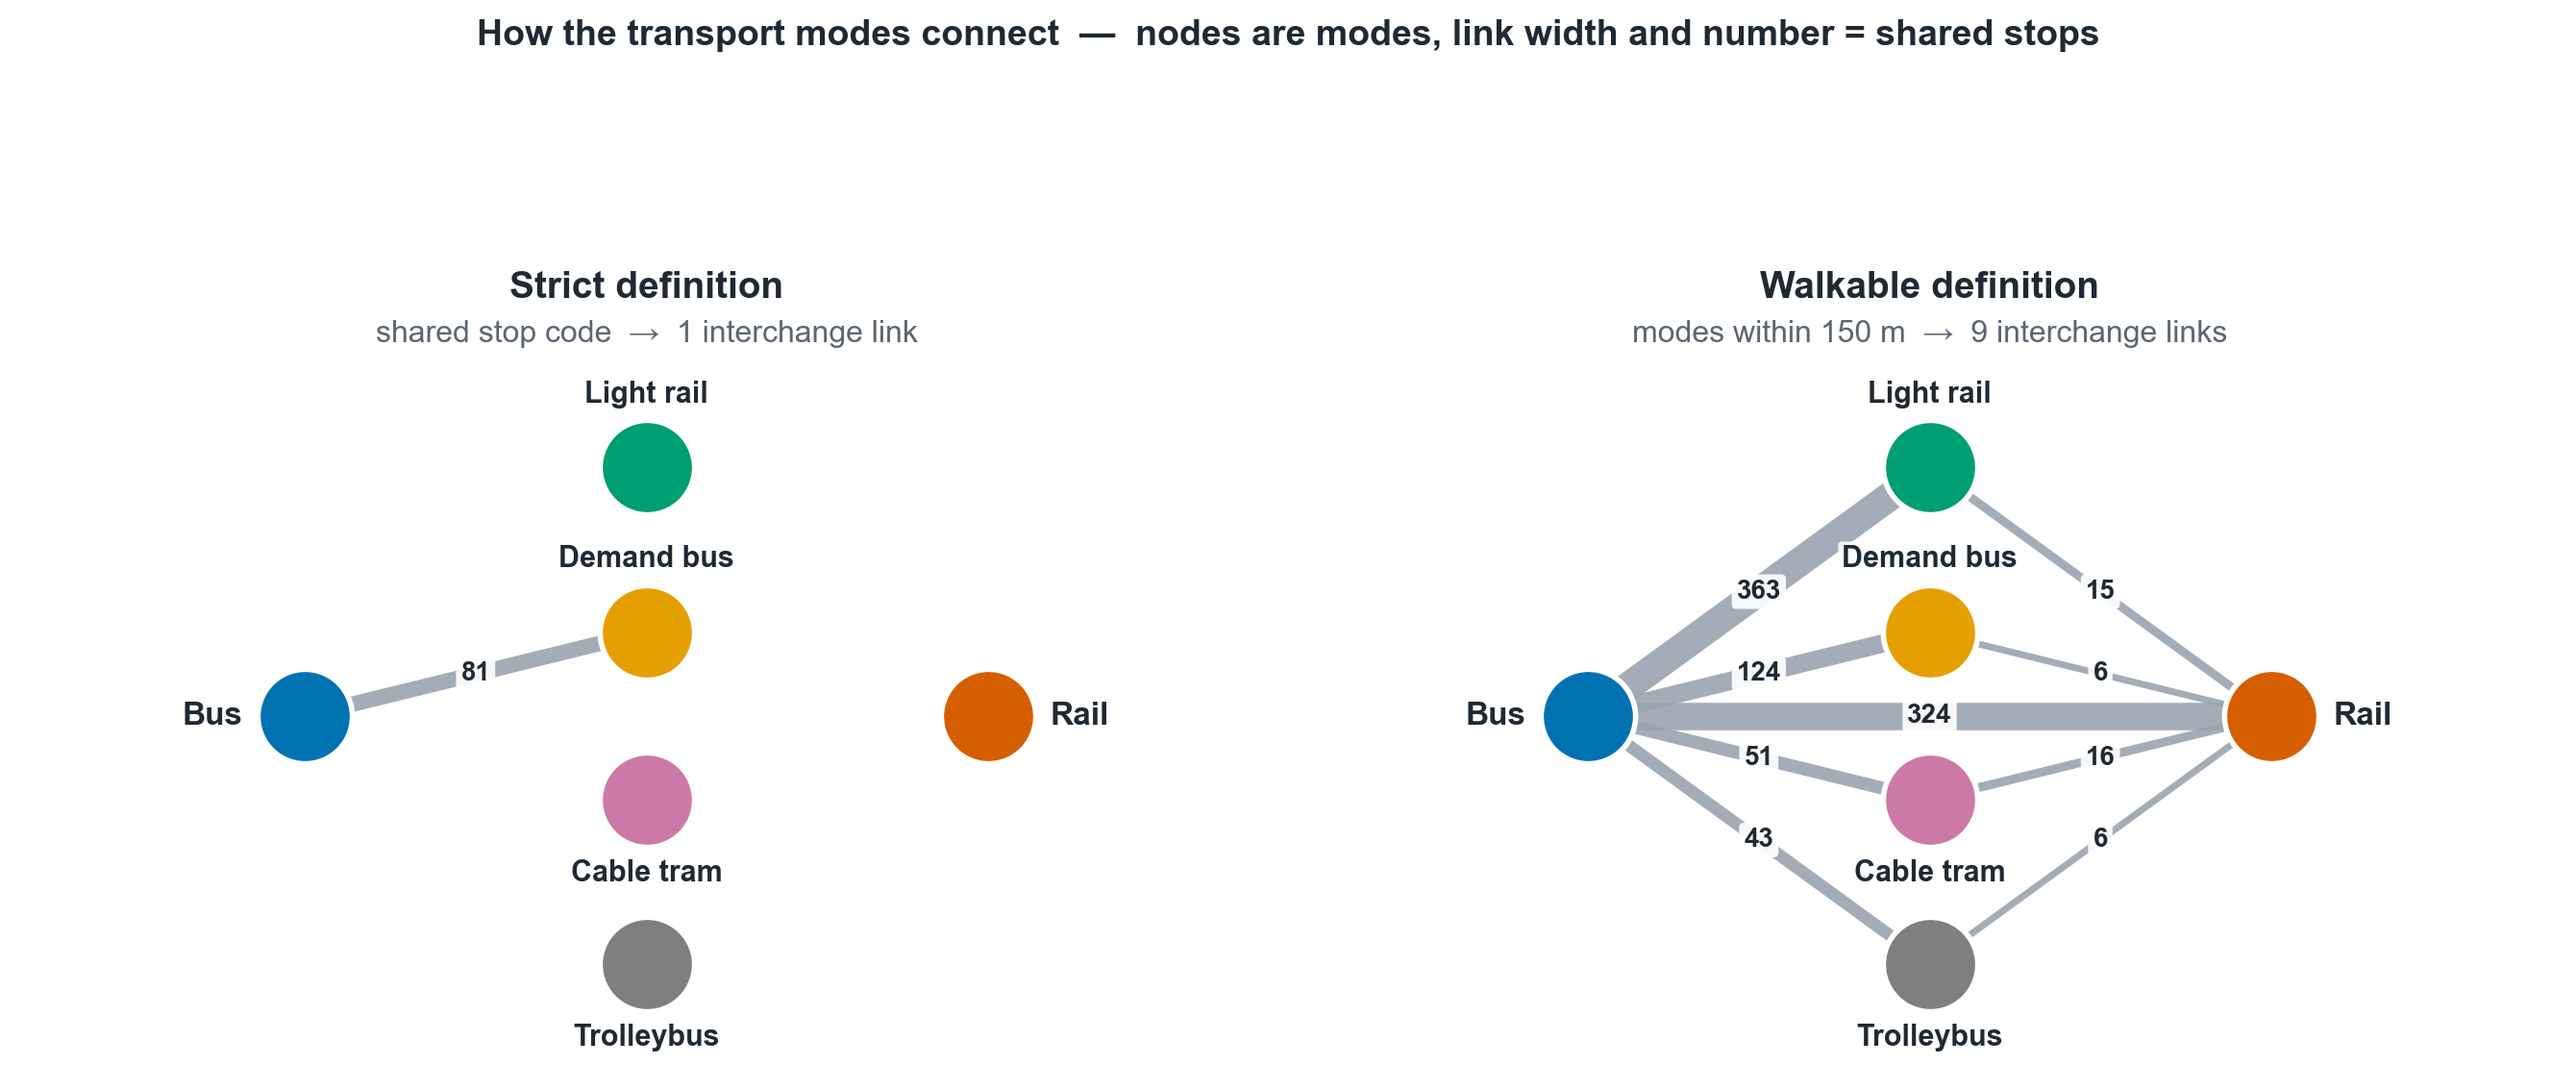
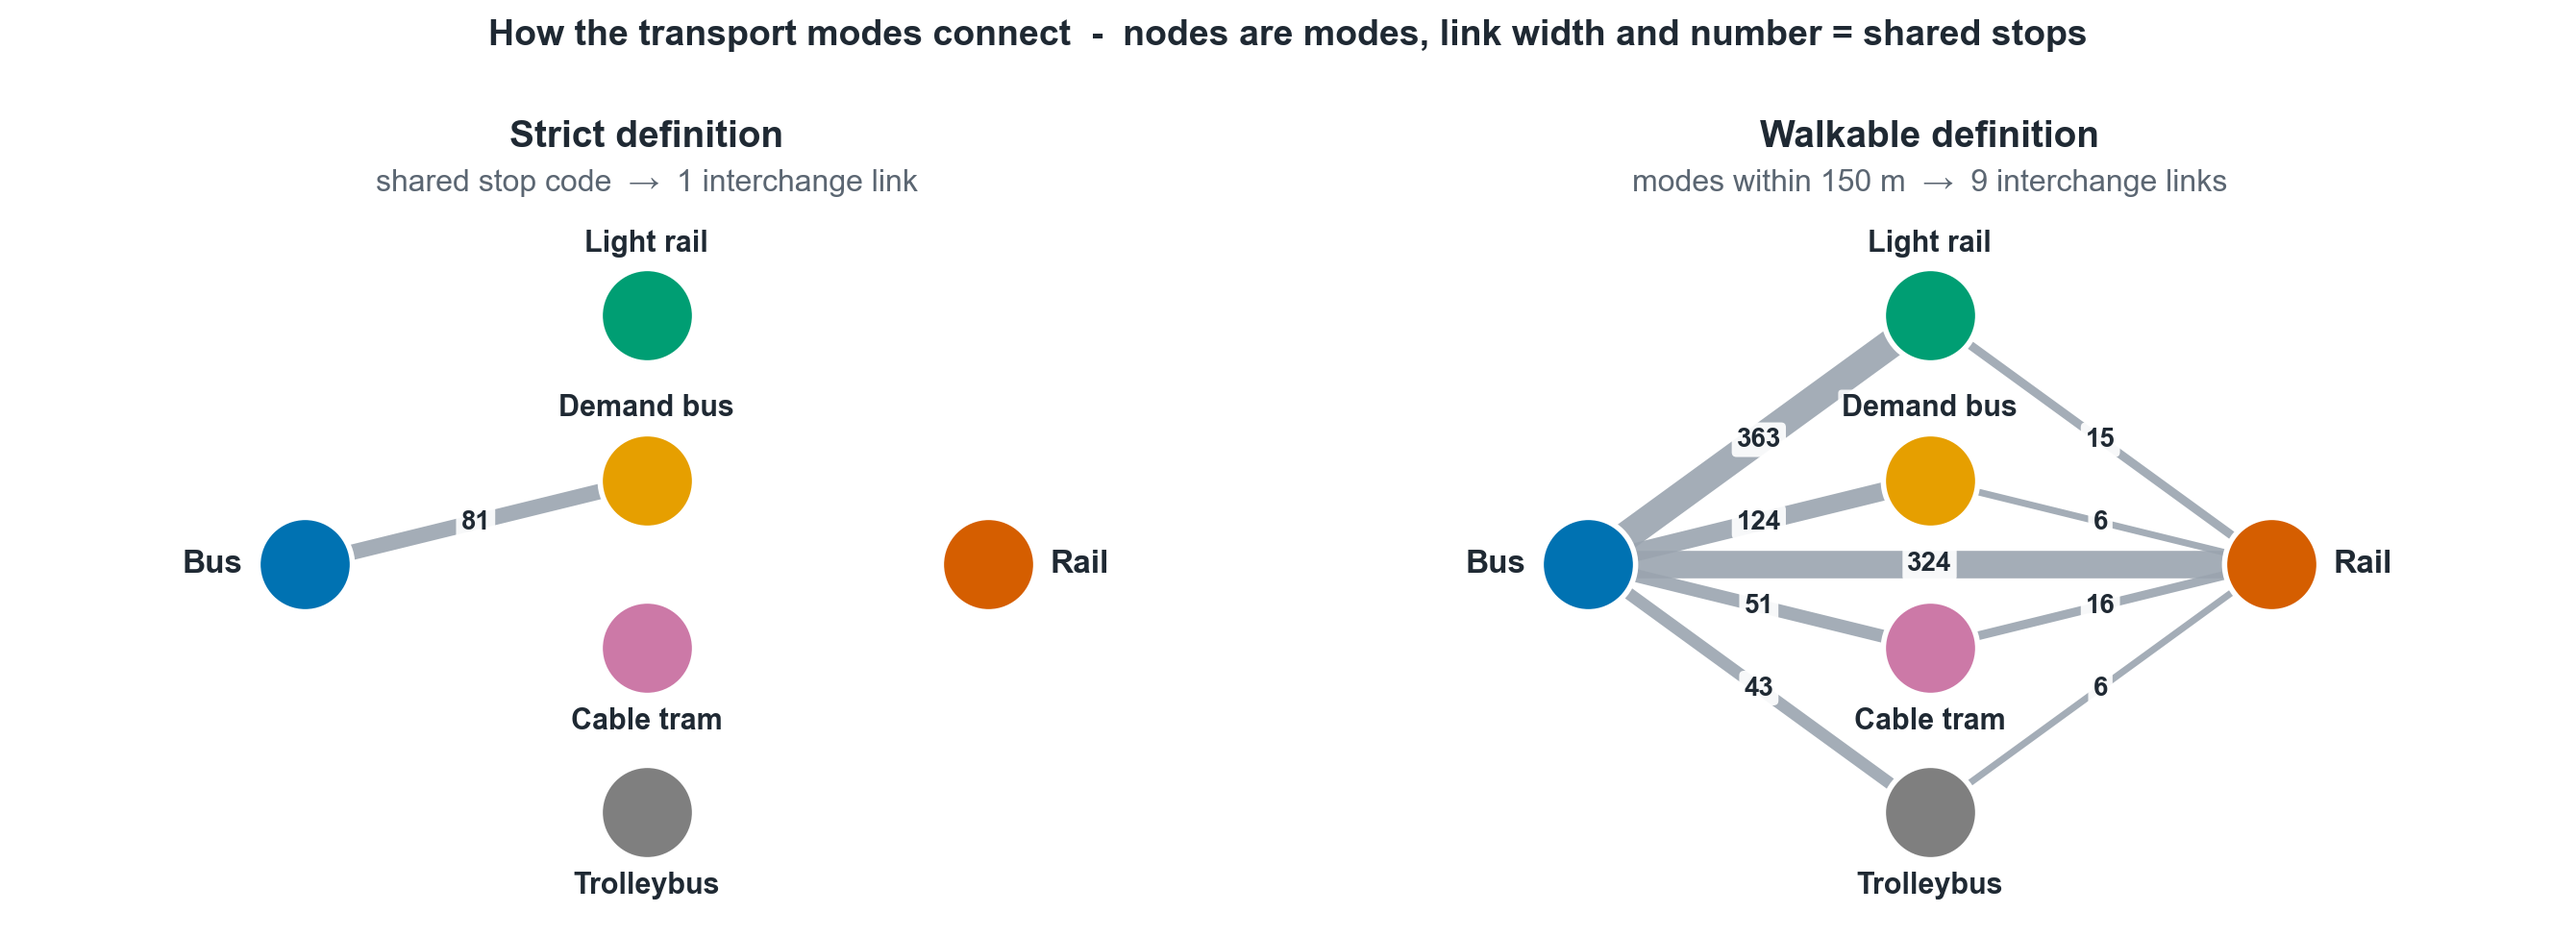
Tighten mode-graph title spacing and use a plain hyphen
Shrink the figure height so the equal-aspect content stops letterboxing (removing
the large gap under the suptitle) and swap the em dash for a plain hyphen.

diff --git a/reports/make_modegraph_figure.py b/reports/make_modegraph_figure.py
@@ -79,12 +79,12 @@ def draw(ax, edges, title, subtitle):
 
 
 plt.rcParams.update({"font.family": ["Arial", "DejaVu Sans"]})
-fig, (axL, axR) = plt.subplots(1, 2, figsize=(13.5, 6.6), dpi=200)
+fig, (axL, axR) = plt.subplots(1, 2, figsize=(13.5, 5.1), dpi=200)
 draw(axL, strict, "Strict definition", "shared stop code  →  1 interchange link")
 draw(axR, walk, "Walkable definition", "modes within 150 m  →  9 interchange links")
-fig.suptitle("How the transport modes connect  —  nodes are modes, link width and number = shared stops",
-             fontsize=13.5, fontweight="bold", color="#1f2933", y=1.0)
-fig.tight_layout(rect=[0, 0, 1, 0.95])
+fig.suptitle("How the transport modes connect  -  nodes are modes, link width and number = shared stops",
+             fontsize=13.5, fontweight="bold", color="#1f2933", y=0.99)
+fig.tight_layout(rect=[0, 0, 1, 0.93])
 fig.savefig(OUT, dpi=200, bbox_inches="tight", facecolor="white")
 print("saved:", OUT, "|", OUT.stat().st_size // 1024, "KB")
 print("strict edges:", strict)
